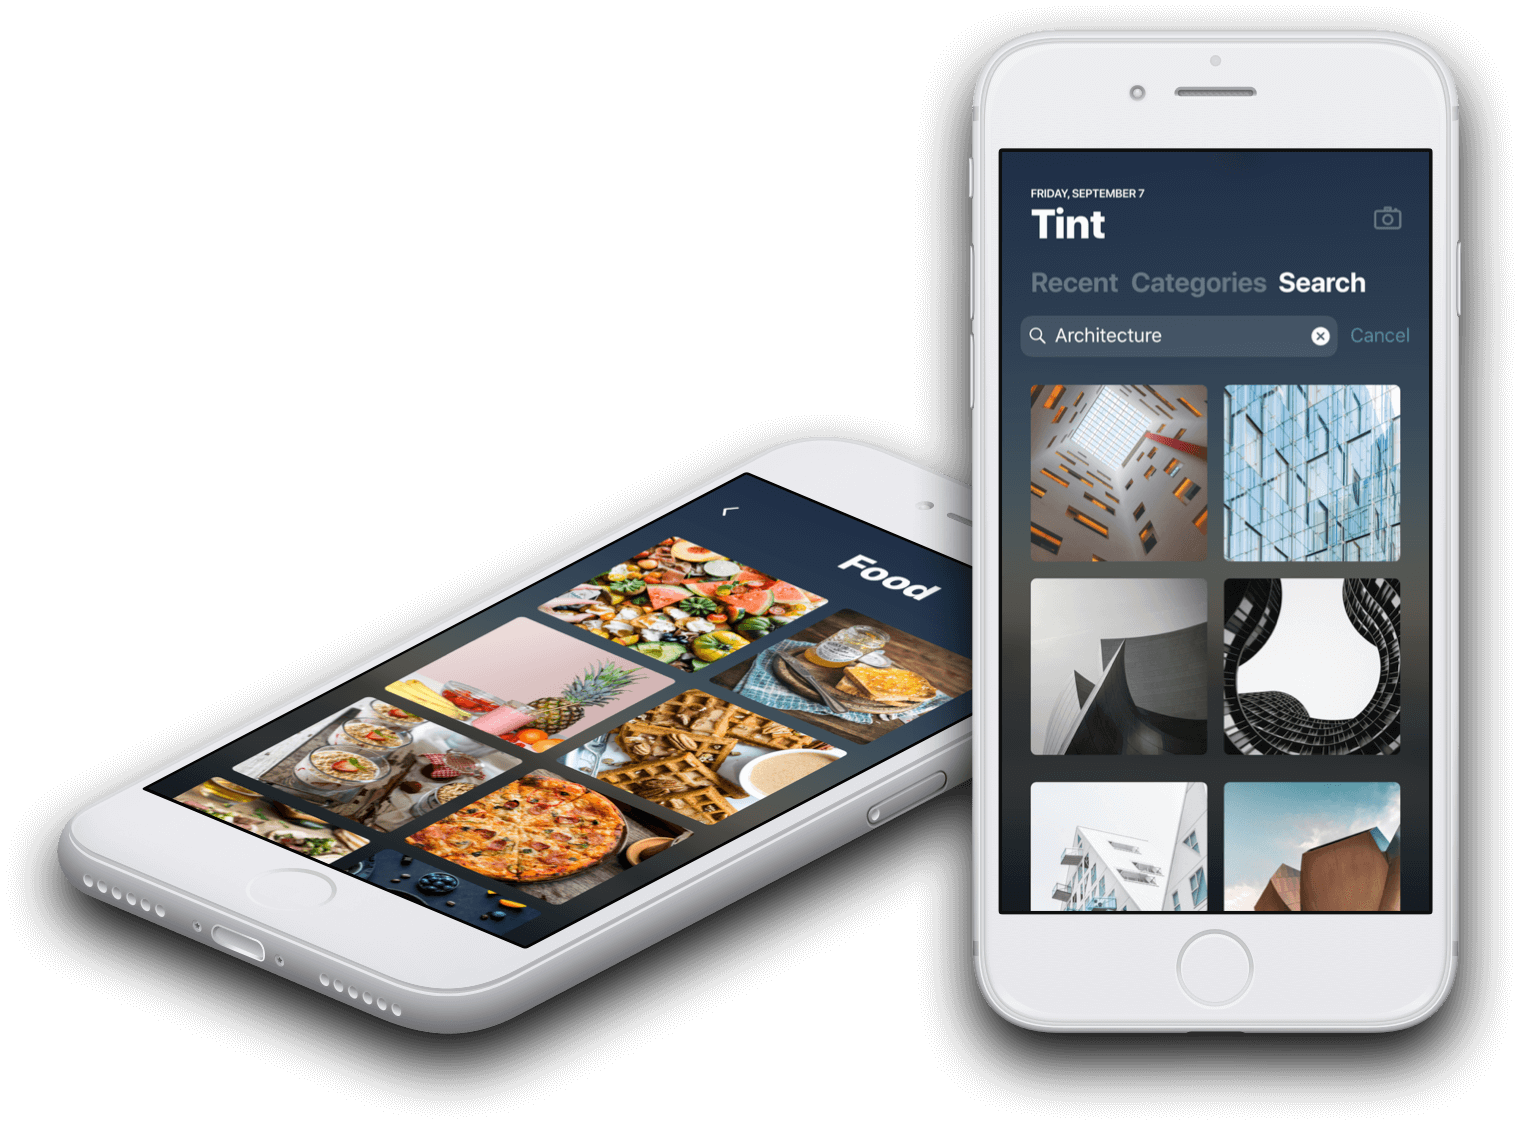
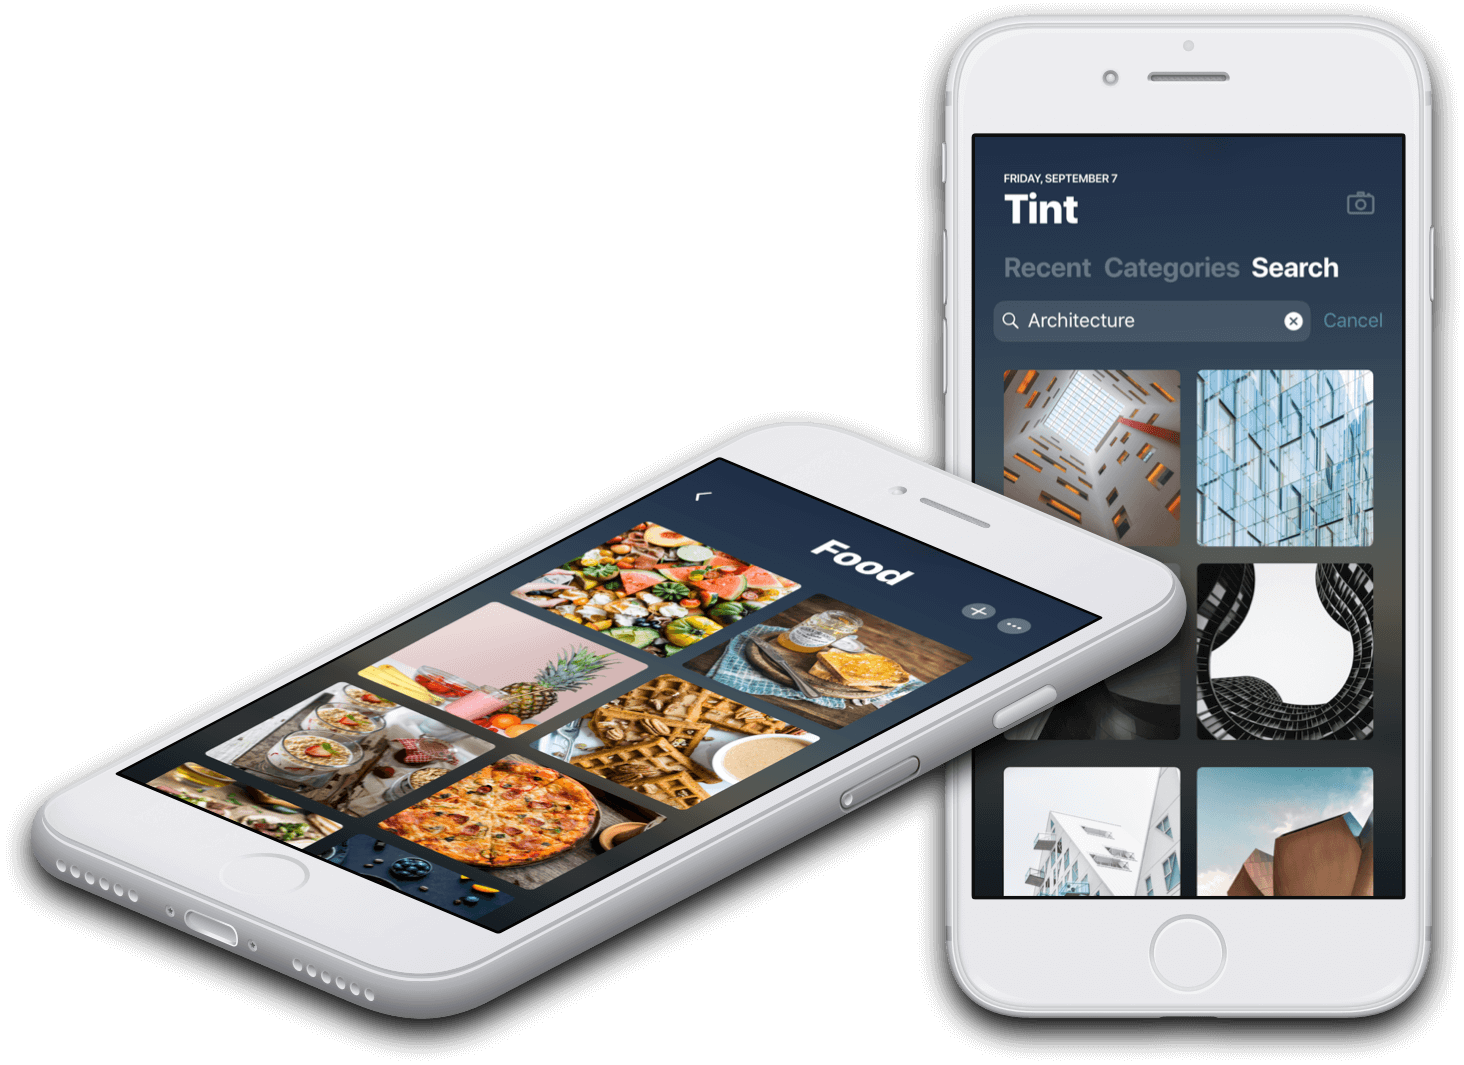
Content modifications
Tint mockup shadow reduced
Section title sizes reduced

diff --git a/css/style.css b/css/style.css
@@ -43,7 +43,7 @@ html {
 }
 h1 {
     font-family: 'SFUI Bold';
-    font-size: 5em;
+    font-size: 3em;
     line-height: 1.25em;
     margin: 0;
 }
@@ -264,6 +264,9 @@ img {
     border-top: 1px solid #B2B2B2;
     padding-top: 3em;
 }
+.title {
+    font-size: 5em;
+}
 .projectimg {
     margin-top: 1.5em;
     margin-bottom: 1.5em;
@@ -306,7 +309,7 @@ video {
 .campmosaictitle {
     background: url(../work/campmosaic/campmosaicbackground2.png) bottom / cover no-repeat;
     -webkit-background-clip: text;
-    -webkit-text-fill-color: transparent;
+    -webkit-text-fill-color: rgba(0, 0, 0, 0.3);
 }
 .chirptitle {
     color: #FFCDDC;
@@ -319,8 +322,8 @@ video {
     margin-bottom: 1.5em;
     padding: 1em;
 }
+
 .athenstitle {
-    
     background: url(../work/travel/athens1.jpg) center / cover no-repeat;
     -webkit-background-clip: text;
     -webkit-text-fill-color: rgba(0, 0, 0, 0.3);
@@ -402,7 +405,7 @@ video {
     -webkit-text-fill-color: rgba(0, 0, 0, 0.3);
 }
 .city {
-    font-size: 0.5em;
+    font-size: 1em;
 }
 .photo {
     display: inline;
@@ -425,6 +428,9 @@ video {
     overflow: scroll;
     white-space: nowrap;
     margin-bottom: 3em;
+}
+::-webkit-scrollbar {
+    display: none;
 }
 
 

diff --git a/travel.html b/travel.html
@@ -84,7 +84,7 @@
     <div class="row" id="travel">
         <div class="c1"></div>
         <div class="c10">
-            <h1 class="venicetitle">
+            <h1 class="venicetitle title">
                 Travel.<br>
                 Cool shots of cool places.
             </h1>

diff --git a/campmosaic.html b/campmosaic.html
@@ -84,7 +84,7 @@
     <div class="row">
         <div class="c1"></div>
         <div class="c10">
-            <h1 class="campmosaictitle">
+            <h1 class="campmosaictitle title">
                 Camp Mosaic.<br>
                 Design system for youth.
             </h1>

diff --git a/designs.html b/designs.html
@@ -84,7 +84,7 @@
     <div class="row">
         <div class="c1"></div>
         <div class="c10">
-            <h1 class="designstitle">
+            <h1 class="designstitle title">
                 Designs.<br>
                 Drawings and illustration.
             </h1>

diff --git a/earbud.html b/earbud.html
@@ -84,7 +84,7 @@
     <div class="row">
         <div class="c1"></div>
         <div class="c10">
-            <h1 class="earbudtitle">
+            <h1 class="earbudtitle title">
                 EarBud.<br>
                 Accessibility research.
             </h1>

diff --git a/nalp.html b/nalp.html
@@ -84,7 +84,7 @@
     <div class="row">
         <div class="c1"></div>
         <div class="c10">
-            <h1 class="nalptitle">
+            <h1 class="nalptitle title">
                 NALP.<br>
                 An Intro to Comm Design.
             </h1>

diff --git a/respond.html b/respond.html
@@ -84,7 +84,7 @@
     <div class="row">
         <div class="c1"></div>
         <div class="c10">
-            <h1 class="respondtitle">
+            <h1 class="respondtitle title">
                 Respond.<br>
                 HackMIT 2018.
             </h1>

diff --git a/tint.html b/tint.html
@@ -84,7 +84,7 @@
     <div class="row">
         <div class="c1"></div>
         <div class="c10">
-            <h1 class="tinttitle">
+            <h1 class="tinttitle title">
                 Tint.<br>
                 Photo app concept.
             </h1>

diff --git a/chirp.html b/chirp.html
@@ -84,7 +84,7 @@
     <div class="row">
         <div class="c1"></div>
         <div class="c10">
-            <h1 class="chirptitle">
+            <h1 class="chirptitle title">
                 Chirp.<br>
                 HackUTD 2017.
             </h1>
